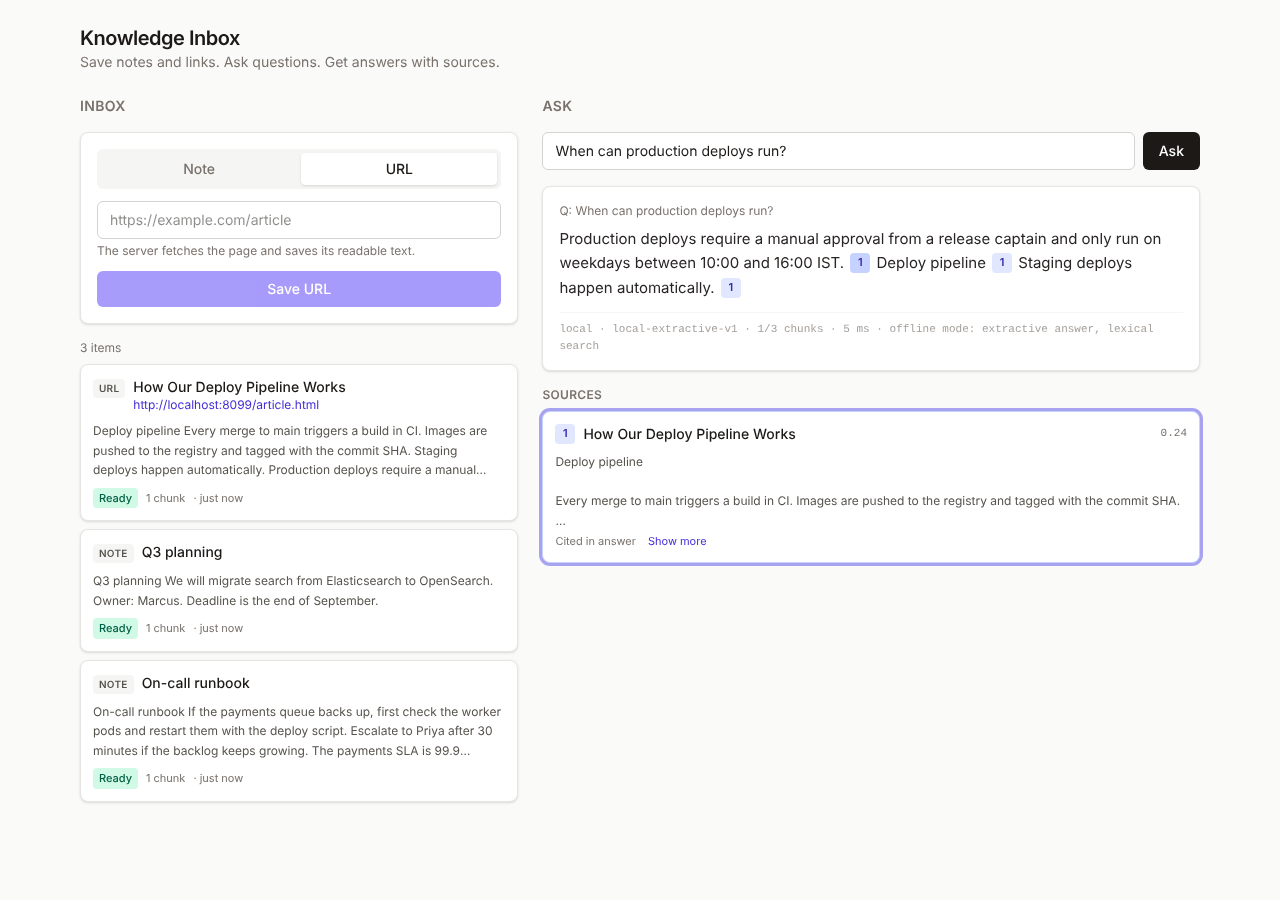
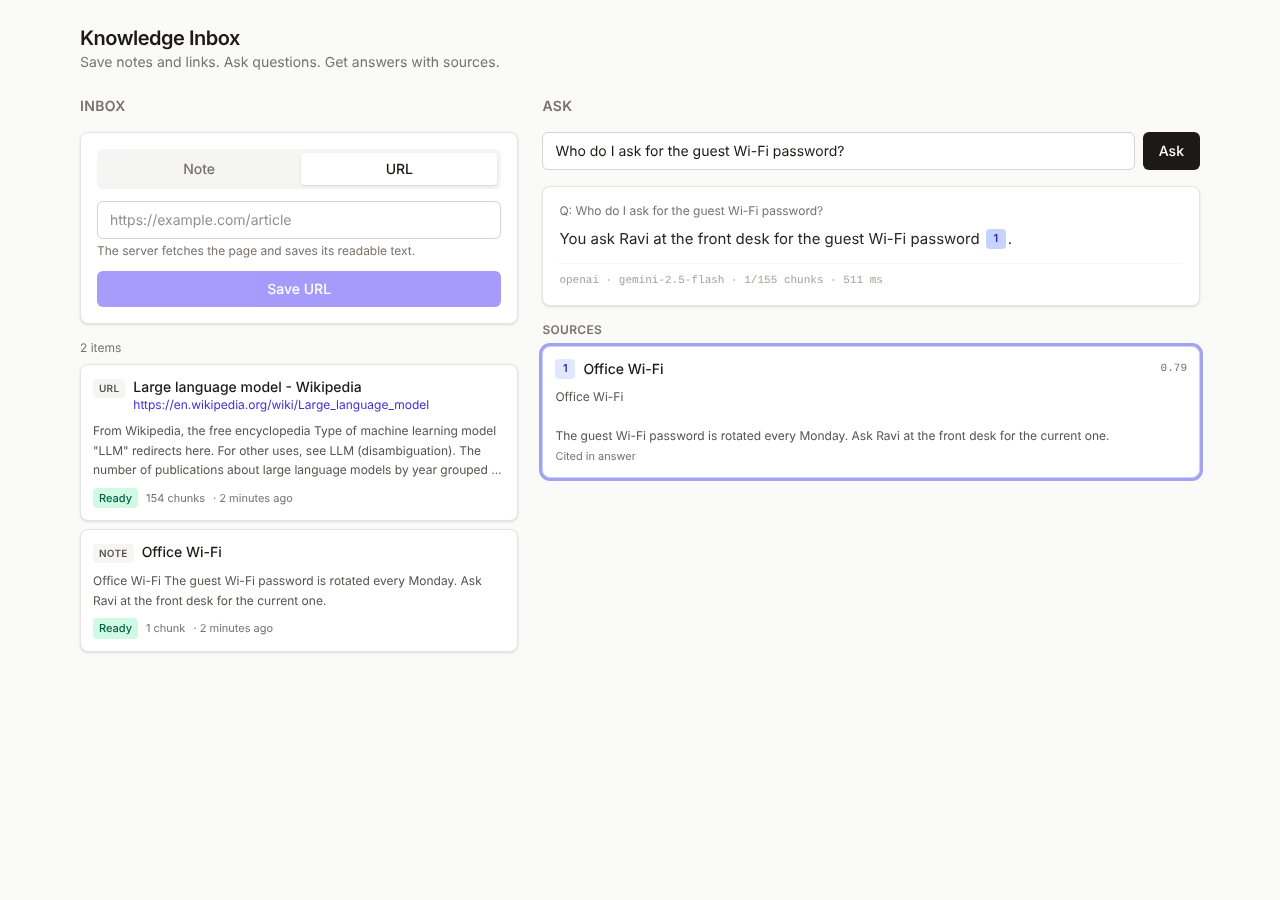
Wait out AI rate limits during indexing, fix self-dependency, README updates

diff --git a/server/src/ai/openaiProvider.js b/server/src/ai/openaiProvider.js
@@ -2,24 +2,54 @@ import OpenAI from 'openai';
 import { Errors } from '../errors.js';
 import { SYSTEM_PROMPT, buildUserPrompt } from '../rag/prompt.js';
 
-const EMBED_BATCH = 96;
+const DEFAULT_RATE_LIMIT_WAIT_S = 30;
+const MAX_RATE_LIMIT_WAIT_S = 65;
+
+const defaultSleep = (ms) => new Promise((resolve) => setTimeout(resolve, ms));
+
+// How long the provider asked us to wait: Retry-After header, else "retry in 22.3s" in the
+// message (Gemini), else a default. Capped so a bad hint can't stall a job for hours.
+export function retryDelaySeconds(err) {
+  const header = Number(err?.headers?.get?.('retry-after') ?? err?.headers?.['retry-after']);
+  const fromMessage = Number(/retry in ([\d.]+)\s*s/i.exec(err?.message ?? '')?.[1]);
+  const s = [header, fromMessage].find((n) => Number.isFinite(n) && n > 0) ?? DEFAULT_RATE_LIMIT_WAIT_S;
+  return Math.min(Math.ceil(s), MAX_RATE_LIMIT_WAIT_S);
+}
 
 export function createOpenAIProvider(
-  { apiKey, baseURL, embeddingModel, chatModel, timeoutMs, maxTokens = 2_000, reasoningEffort, maxRetries = 2 },
+  {
+    apiKey, baseURL, embeddingModel, chatModel, timeoutMs,
+    maxTokens = 2_000, reasoningEffort, maxRetries = 2,
+    embedBatchSize = 96, maxRateLimitWaits = 5,
+  },
   logger,
+  { sleep = defaultSleep } = {},
 ) {
-  // The SDK retries 429/5xx with backoff (maxRetries), so we don't hand-roll that here.
+  // The SDK retries 5xx and short 429s with backoff (maxRetries). Quota-style 429s that ask
+  // for a long wait are handled below, only for background work.
   const client = new OpenAI({ apiKey, baseURL, timeout: timeoutMs, maxRetries });
 
-  const wrap = async (op, fn) => {
-    const started = Date.now();
-    try {
-      const result = await fn();
-      logger.debug({ op, ms: Date.now() - started }, 'openai call ok');
-      return result;
-    } catch (err) {
-      logger.error({ op, ms: Date.now() - started, status: err.status, err: err.message }, 'openai call failed');
-      throw Errors.upstream(`AI provider request failed (${op}).`);
+  // patient: background jobs (indexing) wait out provider rate limits instead of failing.
+  // Interactive requests (a user's question) fail fast with a clear 503 instead.
+  const call = async (op, fn, { patient = false } = {}) => {
+    for (let attempt = 0; ; attempt++) {
+      const started = Date.now();
+      try {
+        const result = await fn();
+        logger.debug({ op, ms: Date.now() - started }, 'openai call ok');
+        return result;
+      } catch (err) {
+        const rateLimited = err.status === 429;
+        if (rateLimited && patient && attempt < maxRateLimitWaits) {
+          const waitS = retryDelaySeconds(err);
+          logger.warn({ op, attempt: attempt + 1, waitS }, 'AI provider rate limit hit; waiting before retry');
+          await sleep(waitS * 1000);
+          continue;
+        }
+        logger.error({ op, ms: Date.now() - started, status: err.status, err: err.message }, 'openai call failed');
+        if (rateLimited) throw Errors.rateLimited(op, retryDelaySeconds(err));
+        throw Errors.upstream(`AI provider request failed (${op}).`);
+      }
     }
   };
 
@@ -28,12 +58,14 @@ export function createOpenAIProvider(
     embeddingModel,
     chatModel,
 
-    async embed(texts) {
+    async embed(texts, { patient = false } = {}) {
       const out = [];
-      for (let i = 0; i < texts.length; i += EMBED_BATCH) {
-        const batch = texts.slice(i, i + EMBED_BATCH);
-        const res = await wrap('embeddings', () =>
-          client.embeddings.create({ model: embeddingModel, input: batch }),
+      for (let i = 0; i < texts.length; i += embedBatchSize) {
+        const batch = texts.slice(i, i + embedBatchSize);
+        const res = await call(
+          'embeddings',
+          () => client.embeddings.create({ model: embeddingModel, input: batch }),
+          { patient },
         );
         // API returns items with an index; sort defensively before appending.
         res.data.sort((a, b) => a.index - b.index).forEach((d) => out.push(d.embedding));
@@ -42,7 +74,7 @@ export function createOpenAIProvider(
     },
 
     async answer({ question, sources }) {
-      const res = await wrap('chat', () =>
+      const res = await call('chat', () =>
         client.chat.completions.create({
           model: chatModel,
           temperature: 0.1,

diff --git a/server/test/openaiProvider.test.js b/server/test/openaiProvider.test.js
@@ -2,7 +2,7 @@ import assert from 'node:assert/strict';
 import http from 'node:http';
 import { after, before, describe, it } from 'node:test';
 import pino from 'pino';
-import { createOpenAIProvider } from '../src/ai/openaiProvider.js';
+import { createOpenAIProvider, retryDelaySeconds } from '../src/ai/openaiProvider.js';
 import { buildTestApp } from './helpers.js';
 
 // A fake OpenAI-compatible server: deterministic "embeddings" (bag of known words) and a
@@ -10,14 +10,21 @@ import { buildTestApp } from './helpers.js';
 const VOCAB = ['backup', 'postgres', 'nightly', 'tea', 'coffee', 'alice', 'bob', 'database'];
 const fakeEmbed = (text) => VOCAB.map((w) => (text.toLowerCase().includes(w) ? 1 : 0)).concat([0.01]);
 
-function startFakeOpenAI({ failChat = false } = {}) {
+function startFakeOpenAI({ failChat = false, rateLimitEmbeddings = 0 } = {}) {
   const calls = { embeddings: [], chat: [] };
+  let embedRejections = 0;
   const server = http.createServer(async (req, res) => {
     let raw = '';
     for await (const chunk of req) raw += chunk;
     const body = JSON.parse(raw || '{}');
     res.setHeader('content-type', 'application/json');
     if (req.url.endsWith('/embeddings')) {
+      if (embedRejections < rateLimitEmbeddings) {
+        // Mimic Gemini's free-tier quota error (no Retry-After header, hint in the message).
+        embedRejections++;
+        res.statusCode = 429;
+        return res.end(JSON.stringify({ error: { code: 429, message: 'Quota exceeded for metric: embed_content_free_tier_requests, limit: 100. Please retry in 2.5s.' } }));
+      }
       calls.embeddings.push(body);
       const inputs = Array.isArray(body.input) ? body.input : [body.input];
       // Return out of order to prove the provider sorts by index.
@@ -93,6 +100,53 @@ describe('OpenAI provider (against a fake OpenAI-compatible server)', () => {
       assert.match(res.body.error.message, /chat/);
     } finally {
       failing.server.close();
+    }
+  });
+});
+
+describe('provider rate limits (429)', () => {
+  const silent = pino({ level: 'silent' });
+  const make = (baseURL, sleeps) =>
+    createOpenAIProvider(
+      { apiKey: 't', baseURL, embeddingModel: 'e', chatModel: 'c', timeoutMs: 5000, maxRetries: 0 },
+      silent,
+      { sleep: async (ms) => { sleeps.push(ms); } },
+    );
+
+  it('parses the wait from Retry-After or the message, with a cap', () => {
+    assert.equal(retryDelaySeconds({ message: 'Please retry in 22.27s.' }), 23);
+    assert.equal(retryDelaySeconds({ headers: { 'retry-after': '7' }, message: '' }), 7);
+    assert.equal(retryDelaySeconds({ message: 'retry in 9999s' }), 65);
+    assert.equal(retryDelaySeconds({ message: 'no hint' }), 30);
+  });
+
+  it('background indexing waits out a 429 and the item still becomes ready', async () => {
+    const fake = await startFakeOpenAI({ rateLimitEmbeddings: 2 });
+    try {
+      const sleeps = [];
+      const { api, jobQueue } = buildTestApp({ ai: make(fake.baseURL, sleeps) });
+      const res = await api.post('/api/ingest', { type: 'note', content: 'Postgres backup runs nightly.' });
+      await jobQueue.onIdle();
+      const { item } = (await api.get(`/api/items/${res.body.item.id}`)).body;
+      assert.equal(item.status, 'ready');
+      assert.deepEqual(sleeps, [3000, 3000]); // waited as instructed, twice
+    } finally {
+      fake.server.close();
+    }
+  });
+
+  it('an interactive query fails fast with 503 AI_RATE_LIMITED and Retry-After', async () => {
+    const fake = await startFakeOpenAI({ rateLimitEmbeddings: 1 });
+    try {
+      const sleeps = [];
+      const { api } = buildTestApp({ ai: make(fake.baseURL, sleeps) });
+      const res = await api.post('/api/query', { question: 'when is the backup?' });
+      assert.equal(res.status, 503);
+      assert.equal(res.body.error.code, 'AI_RATE_LIMITED');
+      assert.equal(res.headers['retry-after'], '3');
+      assert.deepEqual(sleeps, []); // never blocks a user request
+    } finally {
+      fake.server.close();
     }
   });
 });

diff --git a/server/src/services/ingestService.js b/server/src/services/ingestService.js
@@ -24,7 +24,8 @@ export function createIngestService({ config, itemsRepository, vectorStore, ai, 
       // Prefix each chunk with its document title before embedding ("contextual header"),
       // so a chunk that never names its topic can still be found by it.
       const header = item.title ? `${item.title}\n\n` : '';
-      const embeddings = await ai.embed(chunks.map((c) => header + c));
+      // patient: indexing is a background job, so it waits out provider rate limits.
+      const embeddings = await ai.embed(chunks.map((c) => header + c), { patient: true });
 
       vectorStore.upsertItem(
         item.id,

diff --git a/server/src/errors.js b/server/src/errors.js
@@ -21,4 +21,13 @@ export const Errors = {
   urlNotAllowed: (message) => new AppError(422, 'URL_NOT_ALLOWED', message),
   emptyContent: (message) => new AppError(422, 'EMPTY_CONTENT', message),
   upstream: (message) => new AppError(502, 'UPSTREAM_AI_ERROR', message),
+  rateLimited: (op, retryAfterS) => {
+    const err = new AppError(
+      503,
+      'AI_RATE_LIMITED',
+      `The AI provider is rate-limiting requests (${op}). Try again in about ${retryAfterS}s.`,
+    );
+    err.retryAfterS = retryAfterS;
+    return err;
+  },
 };

diff --git a/server/src/config.js b/server/src/config.js
@@ -41,6 +41,8 @@ export function loadConfig(overrides = {}) {
       maxTokens: int('OPENAI_MAX_TOKENS', 2_000),
       // Optional: e.g. "none"/"low" to cap thinking on reasoning models (Gemini 2.5, o-series).
       reasoningEffort: process.env.OPENAI_REASONING_EFFORT || undefined,
+      // Inputs per embeddings request. Background indexing waits out 429s between batches.
+      embedBatchSize: int('OPENAI_EMBED_BATCH_SIZE', 96),
     },
 
     chunking: {

diff --git a/server/src/http/errorHandler.js b/server/src/http/errorHandler.js
@@ -24,6 +24,7 @@ export function errorHandler(err, req, res, _next) {
     appErr.message,
   );
 
+  if (appErr.retryAfterS) res.setHeader('retry-after', String(appErr.retryAfterS));
   res.status(appErr.status).json({
     error: {
       code: appErr.code,

diff --git a/README.md b/README.md
@@ -17,7 +17,7 @@ Requires Node 22.13+ (Node 24 recommended). No native modules: storage uses Node
 npm run install:all
 cp server/.env.example server/.env    # optional: add OPENAI_API_KEY (Windows: copy)
 npm run dev                           # dev: API on :3001, hot-reloading UI on http://localhost:5173
-npm test                              # 37 API + unit tests, no network or key needed
+npm test                              # 40 API + unit tests, no network or key needed
 npm start                             # production: builds the UI, serves app + API on http://localhost:3001
 ```
 
@@ -28,6 +28,7 @@ npm start                             # production: builds the UI, serves app + 
 **Tested with Google Gemini (free tier)** through its OpenAI-compatible endpoint, with no code changes. See the commented block in `server/.env.example` (`gemini-embedding-001` + `gemini-2.5-flash`, `OPENAI_REASONING_EFFORT=none`). Two things that run surfaced, both now handled:
 - **Thinking models spend output tokens before answering.** With a 600-token cap, answers were cut off mid-list. The output budget is now configurable (default 2000), thinking can be capped, and a truncated answer logs a warning.
 - **Similarity scores aren't comparable across embedding models.** With Gemini, relevant chunks scored about 0.7–0.83 and unrelated ones about 0.47–0.55, so the `RETRIEVAL_MIN_SCORE` of 0.2 that suits the offline mode let noise through. 0.6 cleanly separates them. This is why the threshold is configuration, and why a small eval set (see production changes) is the right way to tune it.
+- **Free-tier quotas are per input, not per request.** Gemini's free tier allows 100 embedding inputs a minute, and one long Wikipedia article is about 150 chunks, so indexing it failed with a 429. Background indexing now waits out rate limits (it honours `Retry-After` or the provider's "retry in Ns" hint, up to 5 waits capped at 65 s each) and the item still becomes `ready`. Because indexing was already asynchronous, this cost the user nothing but time.
 
 ## API
 
@@ -78,7 +79,7 @@ Returns `{ item }` with `status: "pending"` and a `Location` header. Fetching th
 }
 ```
 
-`cited` tells the UI which retrieved chunks the answer actually used. If nothing clears the relevance threshold, the API says so and **skips the LLM call** rather than letting the model improvise. An AI provider failure returns `502 UPSTREAM_AI_ERROR`.
+`cited` tells the UI which retrieved chunks the answer actually used. If nothing clears the relevance threshold, the API says so and **skips the LLM call** rather than letting the model improvise. An AI provider failure returns `502 UPSTREAM_AI_ERROR`. If the provider is rate-limiting, the response is `503 AI_RATE_LIMITED` with a `Retry-After` header; an interactive question never blocks waiting on a quota.
 
 ## Code layout
 
@@ -159,10 +160,11 @@ The server fetches arbitrary user-supplied URLs, so it guards against SSRF: it r
 
 ## Testing
 
-`npm test` runs 37 tests (also in CI on every push via GitHub Actions) with Node's built-in runner against an in-memory database, fully offline:
+`npm test` runs 40 tests (also in CI on every push via GitHub Actions) with Node's built-in runner against an in-memory database, fully offline:
 
 - **Chunker:** size bounds, no mid-sentence cuts, sentence-aligned overlap, full coverage of the source, oversized sentences, decimals.
 - **API:** every status code in the tables above, validation messages per field, pagination, delete removes from search, background indexing success and failure.
 - **URL ingestion:** against a local HTTP server: redirect following, nav/script/footer stripping, 404 and wrong content type.
 - **Production serving:** the built UI is served for app routes, while unknown `/api` routes still return JSON 404s.
+- **Rate limits:** a 429 during indexing is waited out and the item still ends `ready`; a 429 during a query returns `503` with `Retry-After` immediately.
 - **OpenAI provider:** the real SDK pointed at a fake OpenAI-compatible server: checks the embeddings are reordered by index, the title header is embedded, the prompt contains numbered sources and grounding rules, citations come back, and an upstream 500 maps to `502`.
